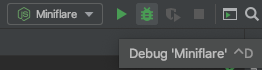
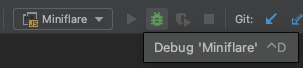
[Miniflare 3] Minor assorted doc fixups (#743)
* Remove reference to `createServer()` in WebSocket docs

* Remove HTML rewriter docs, this is provided by `workerd` now

* Remove supported compatibility flags, we support them all now

* Remove supported web standards, we support the same as `workerd` now

* Update WebStorm debug configuration screenshots

* Fix typo in and format debugger docs

* Remove reference to "Wrangler" DevTools

diff --git a/docs/src/content/core/standards.md b/docs/src/content/core/standards.md
@@ -13,33 +13,6 @@ order: 6
 - [Using Streams](https://developers.cloudflare.com/workers/learning/using-streams)
 - [Web Crypto Reference](https://developers.cloudflare.com/workers/runtime-apis/web-crypto)
 
-Miniflare supports the following Web Standards in its sandbox:
-
-- **Console:** `console.*`
-- **Timers:** `setTimeout`, `setInterval`, `clearTimeout`, `clearInterval`,
-  `queueMicrotask`, `AbortSignal.timeout`, `scheduler.wait`
-- **Base64:** `atob`, `btoa`
-- **Web Crypto**: `crypto.getRandomValues`, `crypto.randomUUID`,
-  `crypto.subtle.*` (with support for `MD5` digests and `NODE-ED25519`
-  signatures), `crypto.DigestStream`
-- **Encoding:** `TextEncoder`, `TextDecoder`
-- **Fetch:** `fetch`, `Headers` (including
-  [non-standard `getAll` method](https://developers.cloudflare.com/workers/runtime-apis/headers#differences)),
-  `Request`, `Response`, `FormData`, `Blob`, `File`, `URL`, `URLPattern`,
-  `URLSearchParams` (powered by [`undici`](https://github.com/nodejs/undici/))
-- **Streams:** `ByteLengthQueuingStrategy`, `CountQueuingStrategy`,
-  `ReadableByteStreamController`, `ReadableStream`, `ReadableStreamBYOBReader`
-  (including non-standard `readAtLeast` method), `ReadableStreamBYOBRequest`,
-  `ReadableStreamDefaultController`, `ReadableStreamDefaultReader`,
-  `TransformStream`, `TransformStreamDefaultController`, `WritableStream`,
-  `WritableStreamDefaultController`, `WritableStreamDefaultWriter`,
-  `IdentityTransformStream`, `FixedLengthStream`, `CompressionStream`,
-  `DecompressionStream`, `TextEncoderStream`, `TextDecoderStream`
-- **Events:** `Event`, `EventTarget`, `AbortController`, `AbortSignal`
-- **Event Types:** `fetch`, `scheduled`, `unhandledrejection`,
-  `rejectionhandled`
-- **Misc:** `structuredClone`, `navigator`
-
 ## Mocking Outbound `fetch` Requests
 
 When using the API, Miniflare allows you to substitute custom `Response`s for
@@ -91,7 +64,10 @@ console.log(await res.text()); // "response:Mocked response!"
 
 ## Subrequests
 
-Miniflare does not support limiting the amount of [subrequests](https://developers.cloudflare.com/workers/platform/limits#account-plan-limits). Please keep this in mind if you make a large amount of subrequests from your Worker.
+Miniflare does not support limiting the amount of
+[subrequests](https://developers.cloudflare.com/workers/platform/limits#account-plan-limits).
+Please keep this in mind if you make a large amount of subrequests from your
+Worker.
 
 ## Global Functionality Limits
 

diff --git a/docs/src/content/developing/debugger.md b/docs/src/content/developing/debugger.md
@@ -4,9 +4,9 @@ order: 4
 
 # 🐛 Attaching a Debugger
 
-You can use regular Node.js tools
-to debug your workers. Setting breakpoints, watching values and inspecting the
-call stack are all examples of things you can do with a debugger.
+You can use regular Node.js tools to debug your workers. Setting breakpoints,
+watching values and inspecting the call stack are all examples of things you can
+do with a debugger.
 
 If you're building your worker beforehand (e.g. with esbuild, Webpack, Rollup),
 make sure you're outputting
@@ -19,7 +19,8 @@ proceeding.
 
 The easiest way to debug a Worker in VSCode is to create a new configuration.
 
-Open the **Run and Debug** menu in the VSCode activity bar and create a `.vscode/launch.json` file that contains the following:
+Open the **Run and Debug** menu in the VSCode activity bar and create a
+`.vscode/launch.json` file that contains the following:
 
 ```json
 ---
@@ -41,9 +42,8 @@ filename: .vscode/launch.json
 }
 ```
 
-From the **Run and Debug** menu in the activity bar, select the
-`Miniflare` configuration, and click the green play button to start
-debugging.
+From the **Run and Debug** menu in the activity bar, select the `Miniflare`
+configuration, and click the green play button to start debugging.
 
 ## WebStorm
 
@@ -52,8 +52,8 @@ Create a new configuration, by clicking **Add Configuration** in the top right.
 ![WebStorm add configuration button](./debugger-webstorm-node-add.png)
 
 Click the **plus** button in the top left of the popup and create a new
-**Node.js/Chrome** configuration. Set the **Host** field to
-`localhost` and the **Port** field to `9229`. Then click **OK**.
+**Node.js/Chrome** configuration. Set the **Host** field to `localhost` and the
+**Port** field to `9229`. Then click **OK**.
 
 ![WebStorm Node.js debug configuration](./debugger-webstorm-settings.png)
 
@@ -64,4 +64,6 @@ debugging.
 
 ## DevTools
 
-Breakpoints can also be added via the Wranger DevTools. For more information, [read the guide](https://developers.cloudflare.com/workers/observability/local-development-and-testing/#devtools) in the Cloudflare Workers docs.
+Breakpoints can also be added via the Workers DevTools. For more information,
+[read the guide](https://developers.cloudflare.com/workers/observability/local-development-and-testing/#devtools)
+in the Cloudflare Workers docs.

diff --git a/docs/src/content/core/compatibility.md b/docs/src/content/core/compatibility.md
@@ -8,9 +8,9 @@ order: 8
 
 ## Compatibility Dates
 
-Like the Workers runtime, Miniflare uses compatibility dates to opt-into
-backwards-incompatible changes from a specific date. If one isn't set, it will
-default to some time far in the past.
+Miniflare uses compatibility dates to opt-into backwards-incompatible changes
+from a specific date. If one isn't set, it will default to some time far in the
+past.
 
 import ConfigTabs from "../components/mdx/config-tabs";
 
@@ -33,17 +33,3 @@ const mf = new Miniflare({
   ],
 });
 ```
-
-Specifically Miniflare supports the following flags:
-
-- `nodejs_compat` (specifically the `node:assert`, `node:async_hooks`,
-  `node:buffer`, `node:events`, `node:util` modules)
-- [`transformstream_enable_standard_constructor`/`transformstream_disable_standard_constructor`](https://developers.cloudflare.com/workers/platform/compatibility-dates#compliant-transformstream-constructor)
-- [`streams_enable_constructors`/`streams_disable_constructors`](https://developers.cloudflare.com/workers/platform/compatibility-dates#streams-constructors)
-- [`export_commonjs_default`/`export_commonjs_namespace`](https://developers.cloudflare.com/workers/platform/compatibility-dates#commonjs-modules-do-not-export-a-module-namespace)
-- [`r2_list_honor_include`](https://developers.cloudflare.com/workers/platform/compatibility-dates#r2-bucket-list-respects-the-include-option)
-- [`global_navigator`/`no_global_navigator`](https://developers.cloudflare.com/workers/platform/compatibility-dates#global-navigator)
-- [`durable_object_fetch_requires_full_url`/`durable_object_fetch_allows_relative_url`](https://developers.cloudflare.com/workers/platform/compatibility-dates#durable-object-stubfetch-requires-a-full-url)
-- [`fetch_refuses_unknown_protocols`/`fetch_treats_unknown_protocols_as_http`](https://developers.cloudflare.com/workers/platform/compatibility-dates#fetch-improperly-interprets-unknown-protocols-as-http)
-- [`formdata_parser_supports_files`/`formdata_parser_converts_files_to_strings`](https://developers.cloudflare.com/workers/platform/compatibility-dates#formdata-parsing-supports-file)
-- [`html_rewriter_treats_esi_include_as_void_tag`](https://developers.cloudflare.com/workers/platform/compatibility-dates#htmlrewriter-handling-of-esiinclude)

diff --git a/docs/src/content/core/web-sockets.md b/docs/src/content/core/web-sockets.md
@@ -9,10 +9,9 @@ order: 4
 
 ## Server
 
-When using the `createServer` method, Miniflare will always upgrade
-Web Socket connections. The worker must then respond with a status
-`101 Switching Protocols` response including a `webSocket`. For example, the
-worker below implements an echo WebSocket server:
+Miniflare will always upgrade Web Socket connections. The worker must respond
+with a status `101 Switching Protocols` response including a `webSocket`. For
+example, the worker below implements an echo WebSocket server:
 
 ```js
 export default {
